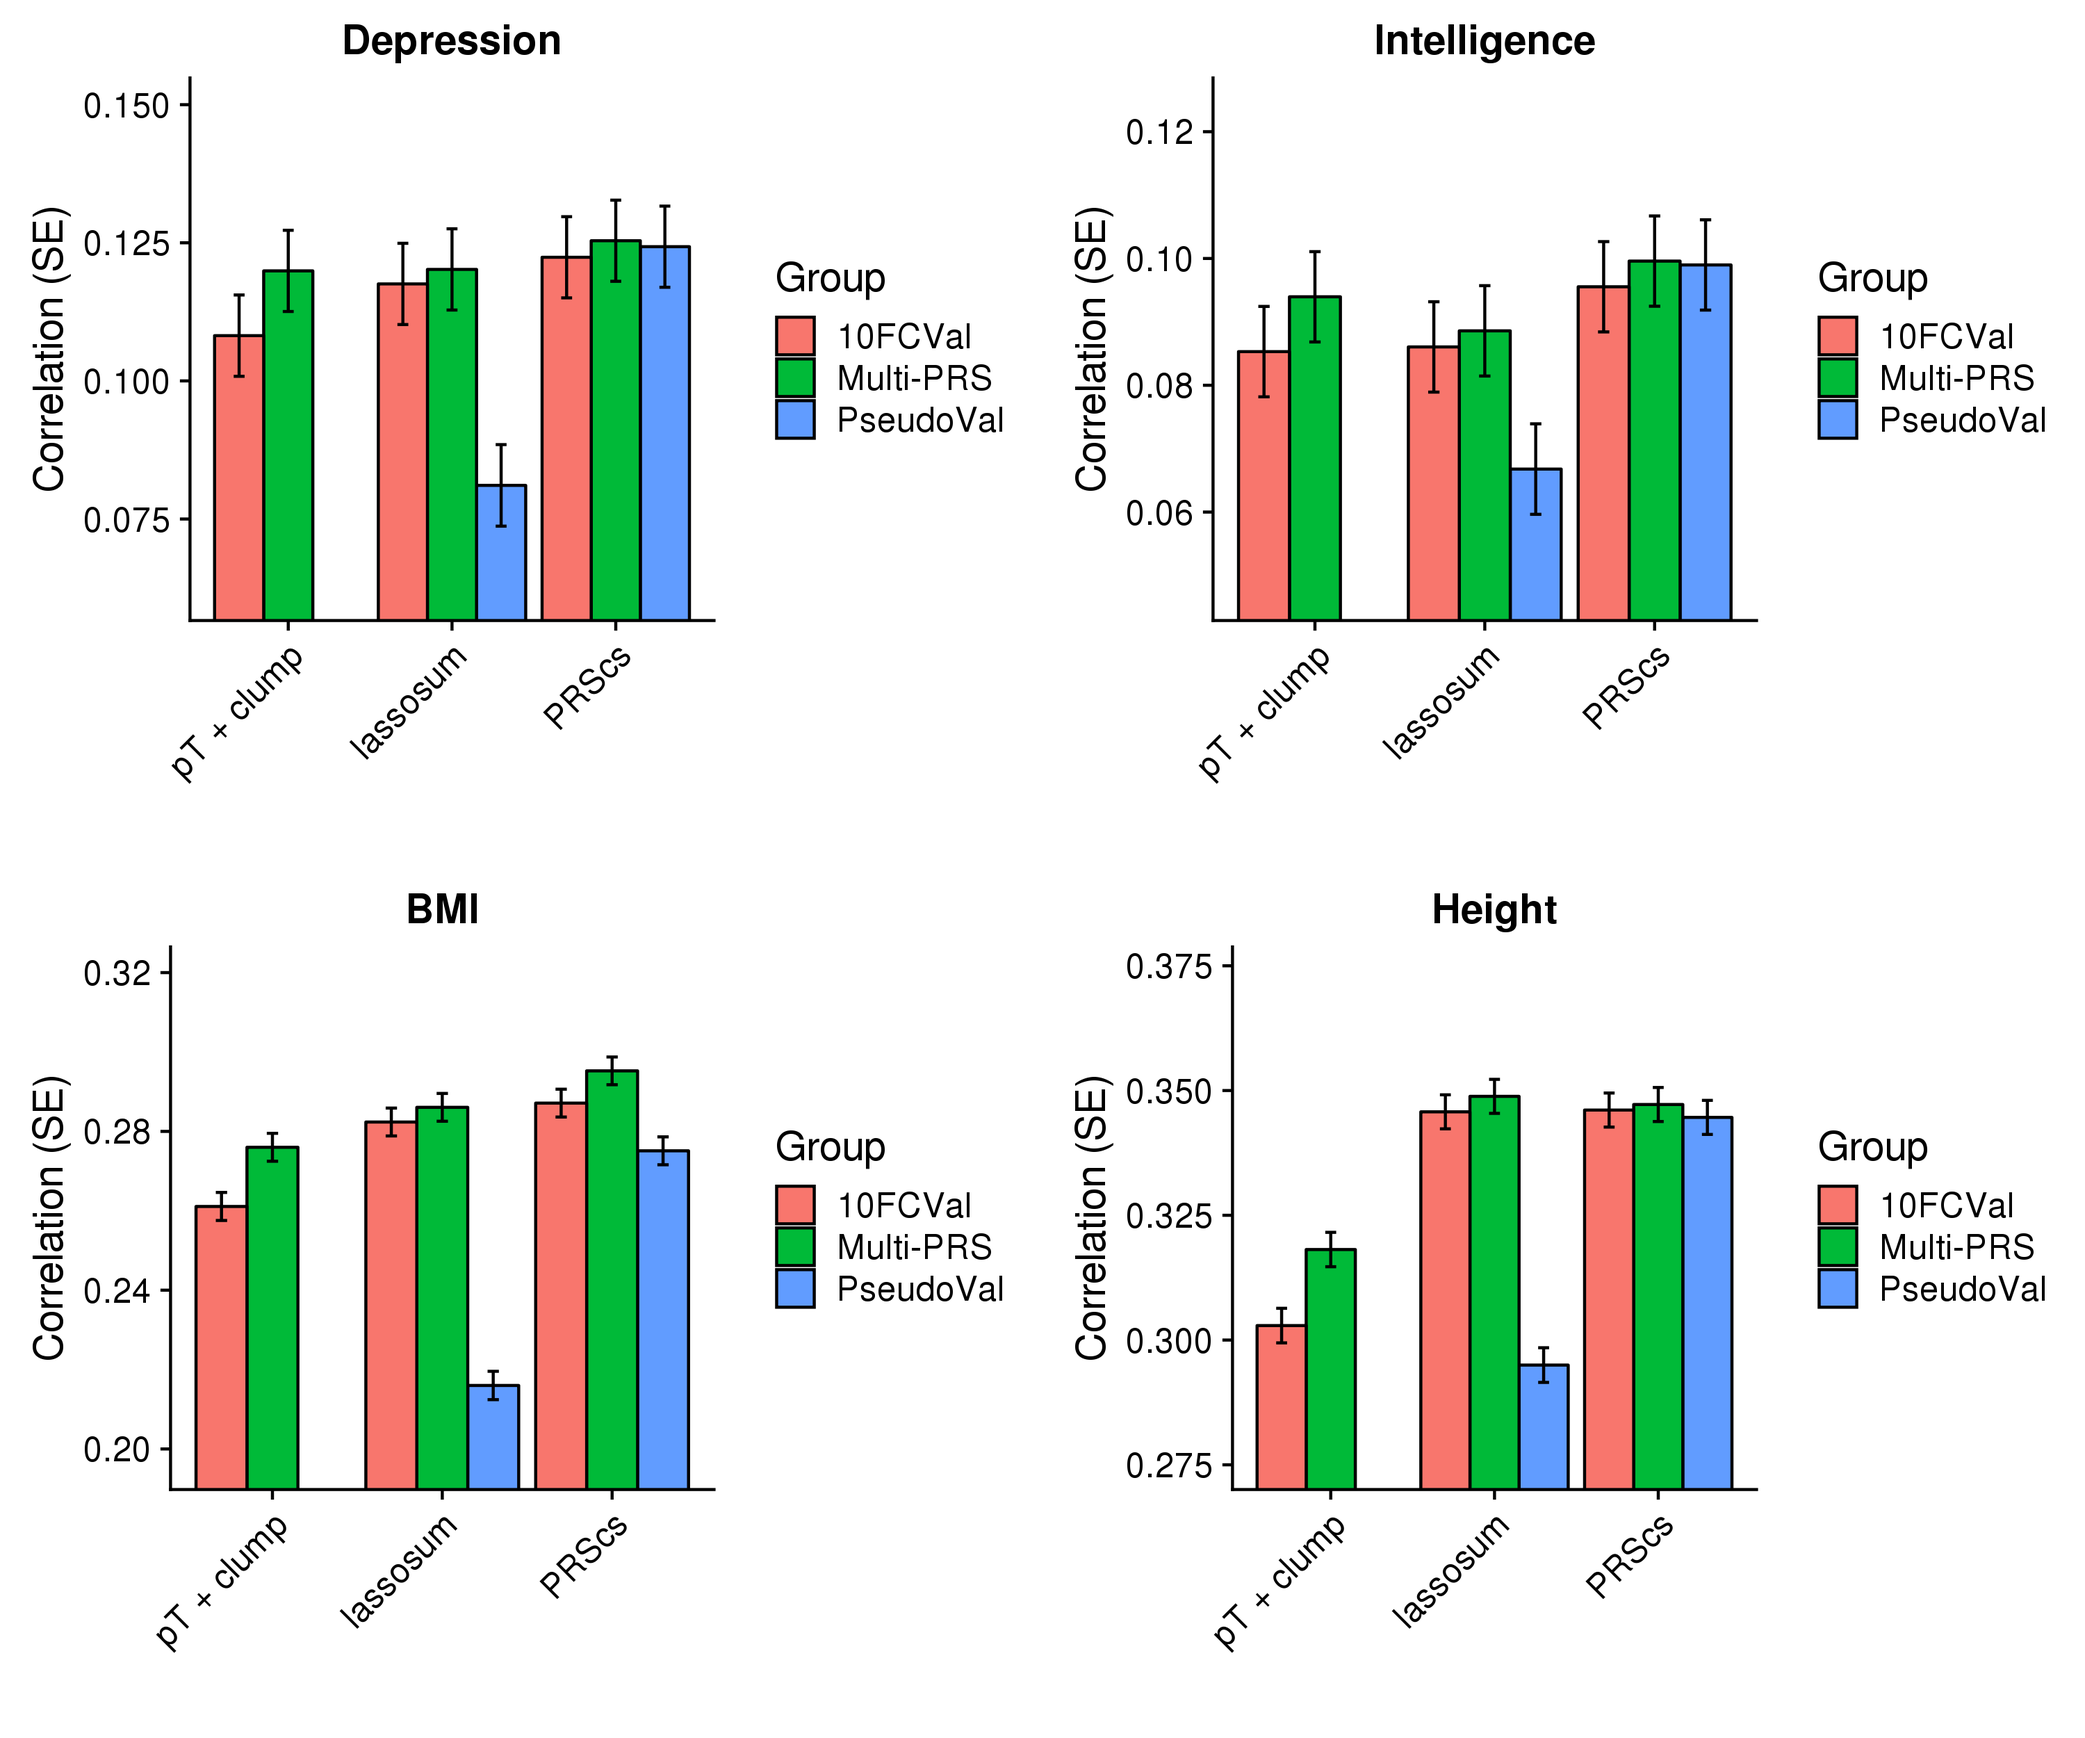
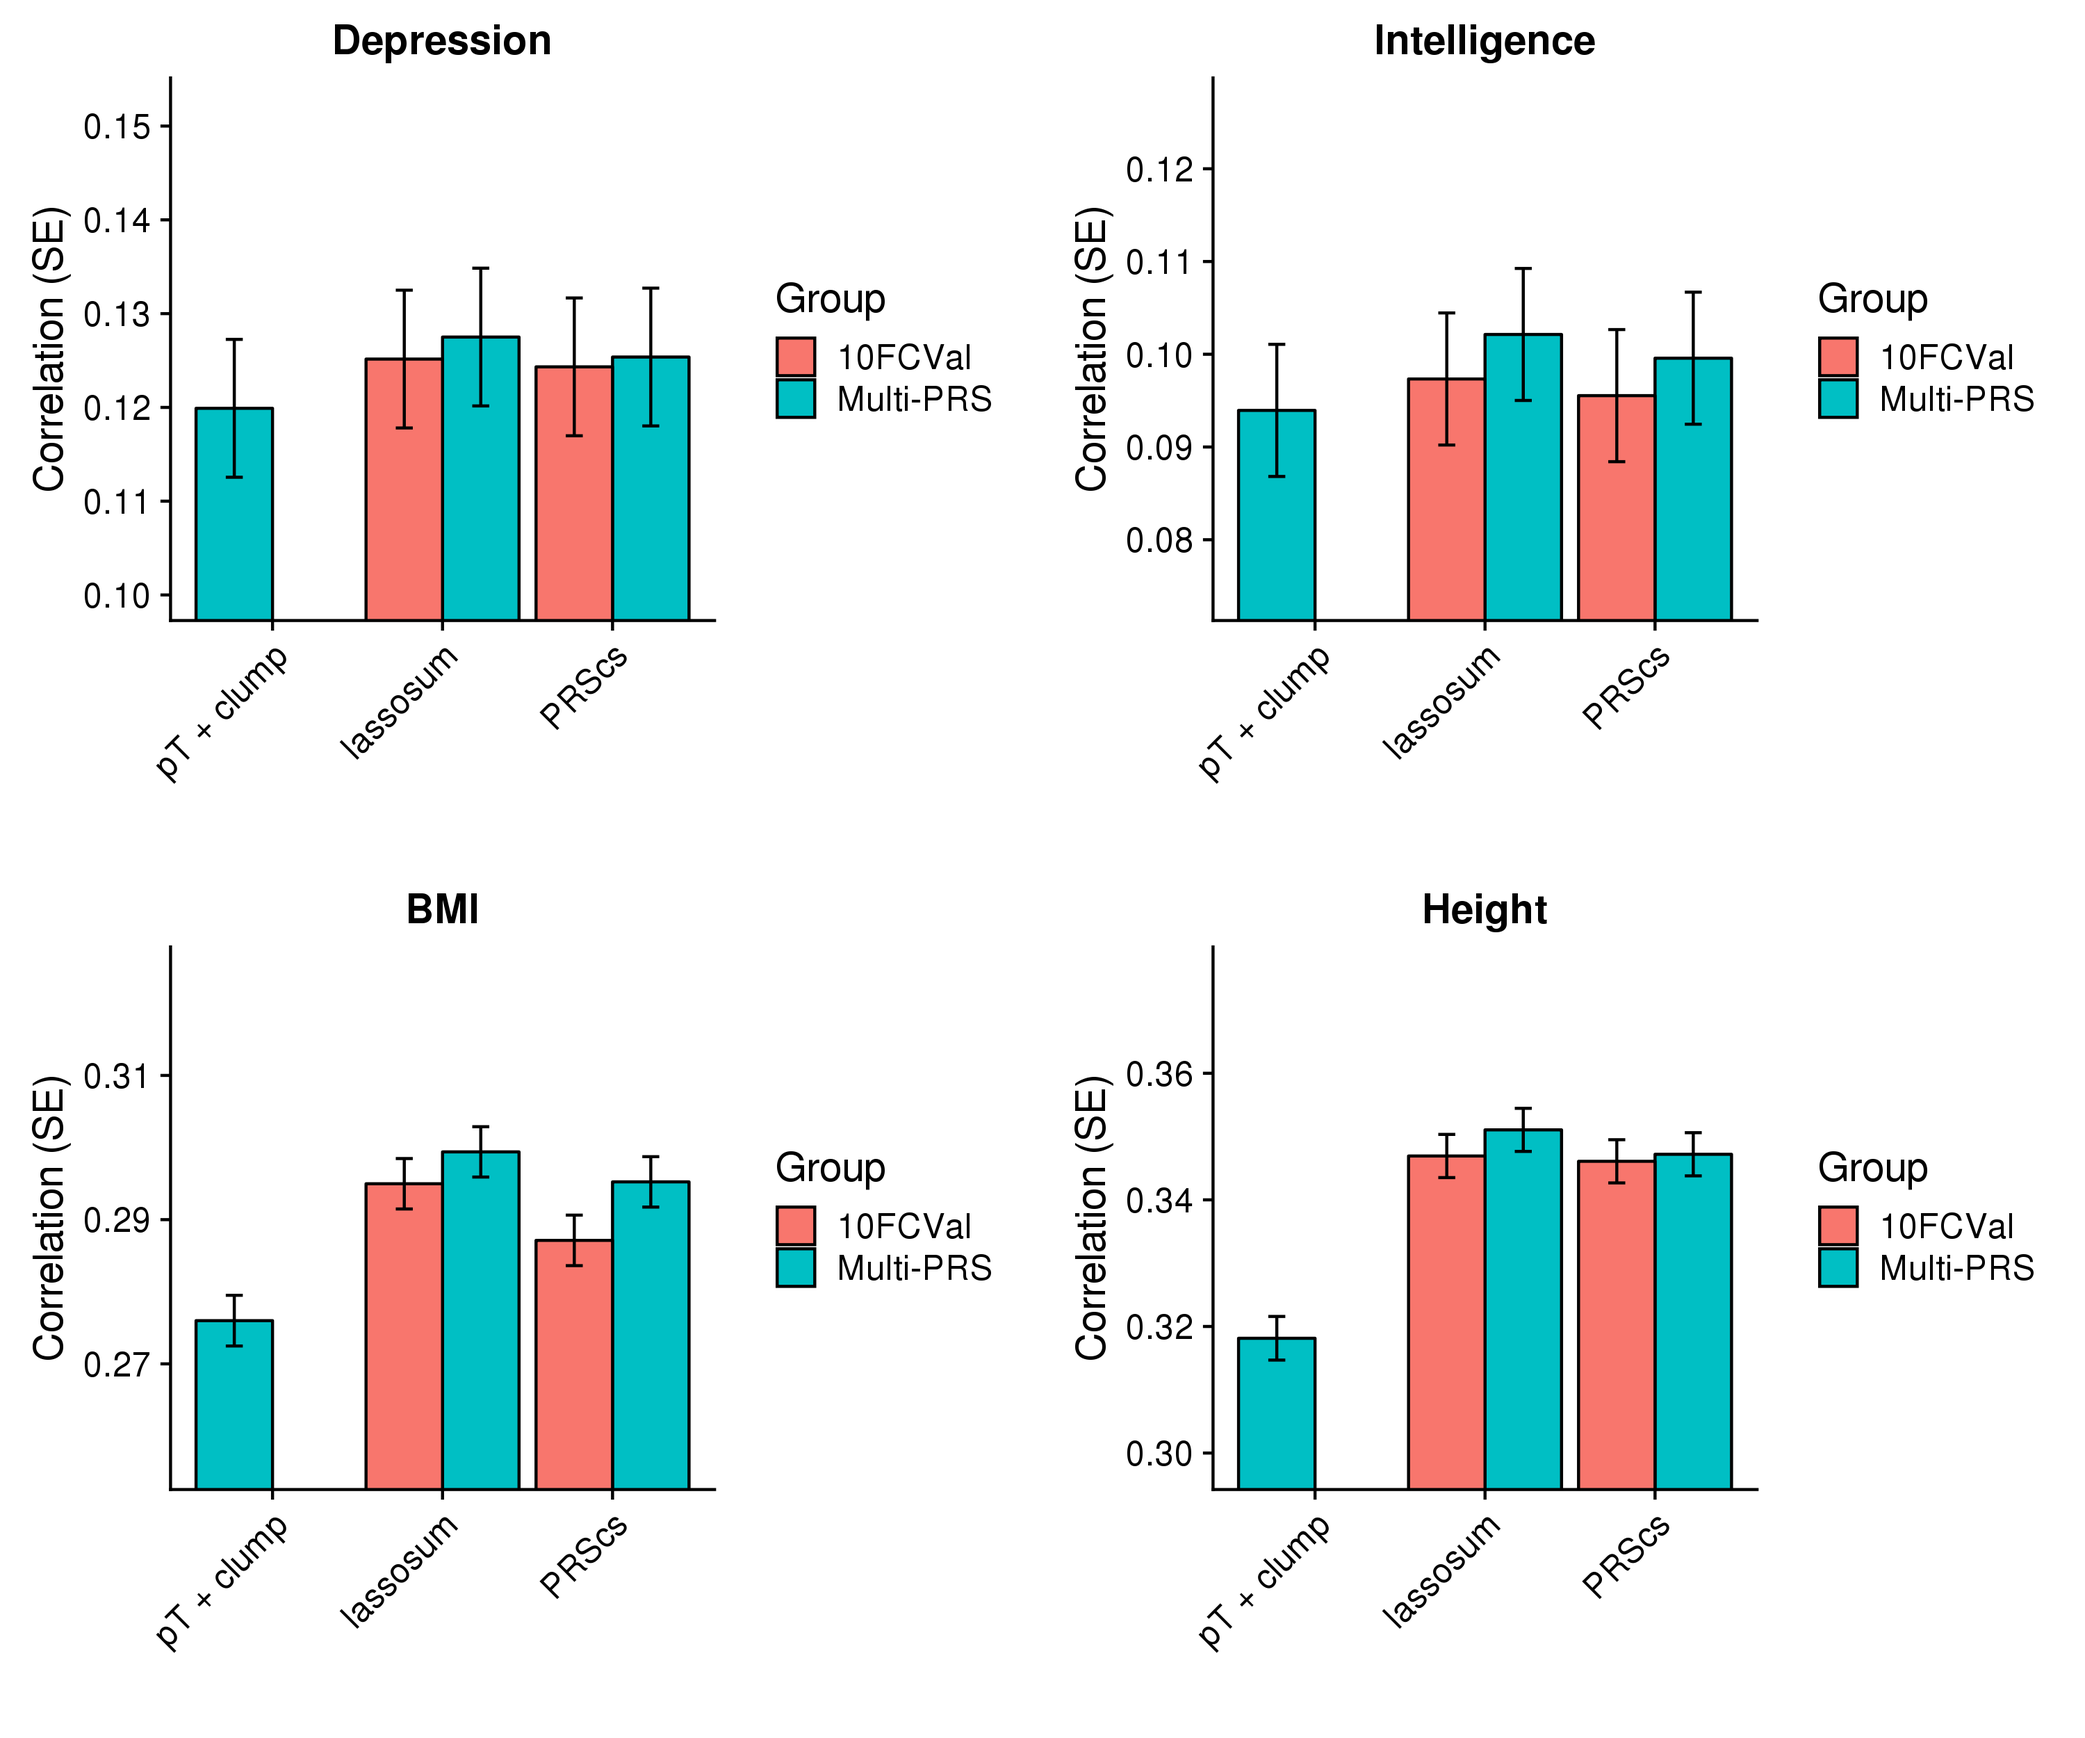
Update

diff --git a/Determine_optimal_polygenic_scoring_approach.html b/Determine_optimal_polygenic_scoring_approach.html
@@ -627,18 +627,26 @@ pheno_file_i=$(echo ${pheno_file} | cut -f ${i} -d &#39; &#39;)
 gwas_i=$(echo ${gwas} | cut -f ${i} -d &#39; &#39;)
 prev_i=$(echo ${prev} | cut -f ${i} -d &#39; &#39;)
 
-qsub -l h_vmem=10G -pe smp 5 /users/k1806347/brc_scratch/Software/Rscript.sh /users/k1806347/brc_scratch/Software/MyGit/GenoPred/Scripts/Model_builder/Model_builder.R \
+qsub -l h_vmem=20G -pe smp 4 /users/k1806347/brc_scratch/Software/Rscript.sh /users/k1806347/brc_scratch/Software/MyGit/GenoPred/Scripts/Model_builder/Model_builder.R \
 --pheno /users/k1806347/brc_scratch/Data/UKBB/Phenotype/${pheno_i}/${pheno_file_i} \
 --keep /users/k1806347/brc_scratch/Analyses/UKBB_outcomes_for_prediction/ukb18177_glanville_post_qc_id_list.UpdateIDs.fam \
 --out /users/k1806347/brc_scratch/Analyses/UKBB_outcomes_for_prediction/${pheno_i}/Association_withPRSs/UKBB.w_hm3.${gwas_i}.EUR-PRSs_lassosum \
---n_core 5 \
+--n_core 4 \
 --compare_predictors T \
 --assoc T \
 --outcome_pop_prev ${prev_i} \
 --predictors /users/k1806347/brc_scratch/Analyses/UKBB_outcomes_for_prediction/${pheno_i}/Association_withPRSs/UKBB.w_hm3.${gwas_i}.EUR-PRSs_lassosum.predictor_groups
 done
 
-# Note. Lassosum scores are identical across S values, indicating an error.</code></pre>
+opt$pheno&lt;-&#39;/users/k1806347/brc_scratch/Data/UKBB/Phenotype/Depression/ever_depressed_pheno_final.UpdateIDs.txt&#39;
+opt$keep&lt;-&#39;/users/k1806347/brc_scratch/Analyses/UKBB_outcomes_for_prediction/ukb18177_glanville_post_qc_id_list.UpdateIDs.fam&#39;
+opt$out&lt;-&#39;/users/k1806347/brc_scratch/Analyses/UKBB_outcomes_for_prediction/Depression/Association_withPRSs/UKBB.w_hm3.DEPR06.EUR-PRSs_lassosum&#39;
+opt$n_core&lt;-2
+opt$compare_predictors&lt;-T
+opt$assoc&lt;-T
+opt$outcome_pop_prev&lt;-0.15
+opt$predictors&lt;-&#39;/users/k1806347/brc_scratch/Analyses/UKBB_outcomes_for_prediction/Depression/Association_withPRSs/UKBB.w_hm3.DEPR06.EUR-PRSs_lassosum.predictor_groups&#39;
+</code></pre>
 </details>
 <details>
 <p><summary>PRScs PRSs</summary></p>
@@ -818,8 +826,8 @@ n</code></pre>
 
 <p><br/></p>
 <hr />
-<div id="htmlwidget-842dbee8e5aa00250e8c" style="width:100%;height:auto;" class="datatables html-widget"></div>
-<script type="application/json" data-for="htmlwidget-842dbee8e5aa00250e8c">{"x":{"filter":"top","filterHTML":"<tr>\n  <td data-type=\"factor\" style=\"vertical-align: top;\">\n    <div class=\"form-group has-feedback\" style=\"margin-bottom: auto;\">\n      <input type=\"search\" placeholder=\"All\" class=\"form-control\" style=\"width: 100%;\"/>\n      <span class=\"glyphicon glyphicon-remove-circle form-control-feedback\"><\/span>\n    <\/div>\n    <div style=\"width: 100%; display: none;\">\n      <select multiple=\"multiple\" style=\"width: 100%;\" data-options=\"[&quot;BMI&quot;,&quot;Depression&quot;,&quot;Height&quot;,&quot;Intelligence&quot;]\"><\/select>\n    <\/div>\n  <\/td>\n  <td data-type=\"factor\" style=\"vertical-align: top;\">\n    <div class=\"form-group has-feedback\" style=\"margin-bottom: auto;\">\n      <input type=\"search\" placeholder=\"All\" class=\"form-control\" style=\"width: 100%;\"/>\n      <span class=\"glyphicon glyphicon-remove-circle form-control-feedback\"><\/span>\n    <\/div>\n    <div style=\"width: 100%; display: none;\">\n      <select multiple=\"multiple\" style=\"width: 100%;\" data-options=\"[&quot;lassosum&quot;,&quot;PRScs&quot;,&quot;pT + clump&quot;]\"><\/select>\n    <\/div>\n  <\/td>\n  <td data-type=\"factor\" style=\"vertical-align: top;\">\n    <div class=\"form-group has-feedback\" style=\"margin-bottom: auto;\">\n      <input type=\"search\" placeholder=\"All\" class=\"form-control\" style=\"width: 100%;\"/>\n      <span class=\"glyphicon glyphicon-remove-circle form-control-feedback\"><\/span>\n    <\/div>\n    <div style=\"width: 100%; display: none;\">\n      <select multiple=\"multiple\" style=\"width: 100%;\" data-options=\"[&quot;10FCVal&quot;,&quot;Multi-PRS&quot;,&quot;PseudoVal&quot;]\"><\/select>\n    <\/div>\n  <\/td>\n  <td data-type=\"character\" style=\"vertical-align: top;\">\n    <div class=\"form-group has-feedback\" style=\"margin-bottom: auto;\">\n      <input type=\"search\" placeholder=\"All\" class=\"form-control\" style=\"width: 100%;\"/>\n      <span class=\"glyphicon glyphicon-remove-circle form-control-feedback\"><\/span>\n    <\/div>\n  <\/td>\n  <td data-type=\"character\" style=\"vertical-align: top;\">\n    <div class=\"form-group has-feedback\" style=\"margin-bottom: auto;\">\n      <input type=\"search\" placeholder=\"All\" class=\"form-control\" style=\"width: 100%;\"/>\n      <span class=\"glyphicon glyphicon-remove-circle form-control-feedback\"><\/span>\n    <\/div>\n  <\/td>\n<\/tr>","caption":"<caption>Table 1: Correlation between PRS model predictions and observed values<\/caption>","data":[["Depression","Depression","Depression","Depression","Depression","Depression","Depression","Depression","Intelligence","Intelligence","Intelligence","Intelligence","Intelligence","Intelligence","Intelligence","Intelligence","BMI","BMI","BMI","BMI","BMI","BMI","BMI","BMI","Height","Height","Height","Height","Height","Height","Height","Height"],["pT + clump","pT + clump","lassosum","lassosum","lassosum","PRScs","PRScs","PRScs","pT + clump","pT + clump","lassosum","lassosum","lassosum","PRScs","PRScs","PRScs","pT + clump","pT + clump","lassosum","lassosum","lassosum","PRScs","PRScs","PRScs","pT + clump","pT + clump","lassosum","lassosum","lassosum","PRScs","PRScs","PRScs"],["10FCVal","Multi-PRS","10FCVal","PseudoVal","Multi-PRS","10FCVal","PseudoVal","Multi-PRS","10FCVal","Multi-PRS","10FCVal","PseudoVal","Multi-PRS","10FCVal","PseudoVal","Multi-PRS","10FCVal","Multi-PRS","10FCVal","PseudoVal","Multi-PRS","10FCVal","PseudoVal","Multi-PRS","10FCVal","Multi-PRS","10FCVal","PseudoVal","Multi-PRS","10FCVal","PseudoVal","Multi-PRS"],["0.119 (0.004)","0.126 (0.004)","0.123 (0.004)","0.077 (0.004)","0.127 (0.004)","0.137 (0.004)","0.138 (0.004)","0.14 (0.004)","0.09 (0.004)","0.094 (0.004)","0.093 (0.004)","0.065 (0.004)","0.094 (0.004)","0.102 (0.004)","0.1 (0.004)","0.104 (0.004)","0.255 (0.002)","0.271 (0.002)","0.276 (0.002)","0.215 (0.002)","0.28 (0.002)","0.281 (0.002)","0.272 (0.002)","0.29 (0.002)","0.299 (0.002)","0.315 (0.002)","0.342 (0.002)","0.289 (0.002)","0.345 (0.002)","0.342 (0.002)","0.342 (0.002)","0.344 (0.002)"],["0.108 (0.007)","0.12 (0.007)","0.118 (0.007)","0.081 (0.007)","0.12 (0.007)","0.122 (0.007)","0.124 (0.007)","0.125 (0.007)","0.085 (0.007)","0.094 (0.007)","0.086 (0.007)","0.067 (0.007)","0.089 (0.007)","0.096 (0.007)","0.099 (0.007)","0.1 (0.007)","0.261 (0.004)","0.276 (0.004)","0.282 (0.004)","0.216 (0.004)","0.286 (0.004)","0.287 (0.004)","0.275 (0.004)","0.295 (0.003)","0.303 (0.003)","0.318 (0.003)","0.346 (0.003)","0.295 (0.003)","0.349 (0.003)","0.346 (0.003)","0.345 (0.003)","0.347 (0.003)"]],"container":"<table class=\"display\">\n  <thead>\n    <tr>\n      <th>Phenotype<\/th>\n      <th>Method<\/th>\n      <th>Group<\/th>\n      <th>CrossVal R (SE)<\/th>\n      <th>IndepVal R (SE)<\/th>\n    <\/tr>\n  <\/thead>\n<\/table>","options":{"pageLength":10,"scrollX":true,"order":[],"autoWidth":false,"orderClasses":false,"orderCellsTop":true}},"evals":[],"jsHooks":[]}</script>
+<div id="htmlwidget-404243b9c308bcdd55d7" style="width:100%;height:auto;" class="datatables html-widget"></div>
+<script type="application/json" data-for="htmlwidget-404243b9c308bcdd55d7">{"x":{"filter":"top","filterHTML":"<tr>\n  <td data-type=\"factor\" style=\"vertical-align: top;\">\n    <div class=\"form-group has-feedback\" style=\"margin-bottom: auto;\">\n      <input type=\"search\" placeholder=\"All\" class=\"form-control\" style=\"width: 100%;\"/>\n      <span class=\"glyphicon glyphicon-remove-circle form-control-feedback\"><\/span>\n    <\/div>\n    <div style=\"width: 100%; display: none;\">\n      <select multiple=\"multiple\" style=\"width: 100%;\" data-options=\"[&quot;BMI&quot;,&quot;Depression&quot;,&quot;Height&quot;,&quot;Intelligence&quot;]\"><\/select>\n    <\/div>\n  <\/td>\n  <td data-type=\"factor\" style=\"vertical-align: top;\">\n    <div class=\"form-group has-feedback\" style=\"margin-bottom: auto;\">\n      <input type=\"search\" placeholder=\"All\" class=\"form-control\" style=\"width: 100%;\"/>\n      <span class=\"glyphicon glyphicon-remove-circle form-control-feedback\"><\/span>\n    <\/div>\n    <div style=\"width: 100%; display: none;\">\n      <select multiple=\"multiple\" style=\"width: 100%;\" data-options=\"[&quot;lassosum&quot;,&quot;PRScs&quot;,&quot;pT + clump&quot;]\"><\/select>\n    <\/div>\n  <\/td>\n  <td data-type=\"factor\" style=\"vertical-align: top;\">\n    <div class=\"form-group has-feedback\" style=\"margin-bottom: auto;\">\n      <input type=\"search\" placeholder=\"All\" class=\"form-control\" style=\"width: 100%;\"/>\n      <span class=\"glyphicon glyphicon-remove-circle form-control-feedback\"><\/span>\n    <\/div>\n    <div style=\"width: 100%; display: none;\">\n      <select multiple=\"multiple\" style=\"width: 100%;\" data-options=\"[&quot;10FCVal&quot;,&quot;Multi-PRS&quot;]\"><\/select>\n    <\/div>\n  <\/td>\n  <td data-type=\"character\" style=\"vertical-align: top;\">\n    <div class=\"form-group has-feedback\" style=\"margin-bottom: auto;\">\n      <input type=\"search\" placeholder=\"All\" class=\"form-control\" style=\"width: 100%;\"/>\n      <span class=\"glyphicon glyphicon-remove-circle form-control-feedback\"><\/span>\n    <\/div>\n  <\/td>\n  <td data-type=\"character\" style=\"vertical-align: top;\">\n    <div class=\"form-group has-feedback\" style=\"margin-bottom: auto;\">\n      <input type=\"search\" placeholder=\"All\" class=\"form-control\" style=\"width: 100%;\"/>\n      <span class=\"glyphicon glyphicon-remove-circle form-control-feedback\"><\/span>\n    <\/div>\n  <\/td>\n<\/tr>","caption":"<caption>Table 1: Correlation between PRS model predictions and observed values<\/caption>","data":[["Depression","Depression","Depression","Depression","Depression","Intelligence","Intelligence","Intelligence","Intelligence","Intelligence","BMI","BMI","BMI","BMI","BMI","Height","Height","Height","Height","Height"],["pT + clump","lassosum","lassosum","PRScs","PRScs","pT + clump","lassosum","lassosum","PRScs","PRScs","pT + clump","lassosum","lassosum","PRScs","PRScs","pT + clump","lassosum","lassosum","PRScs","PRScs"],["Multi-PRS","10FCVal","Multi-PRS","10FCVal","Multi-PRS","Multi-PRS","10FCVal","Multi-PRS","10FCVal","Multi-PRS","Multi-PRS","10FCVal","Multi-PRS","10FCVal","Multi-PRS","Multi-PRS","10FCVal","Multi-PRS","10FCVal","Multi-PRS"],["0.126 (0.004)","0.139 (0.004)","0.141 (0.004)","0.138 (0.004)","0.14 (0.004)","0.094 (0.004)","0.103 (0.004)","0.106 (0.004)","0.102 (0.004)","0.104 (0.004)","0.271 (0.002)","0.289 (0.002)","0.294 (0.002)","0.281 (0.002)","0.29 (0.002)","0.315 (0.002)","0.342 (0.002)","0.347 (0.002)","0.342 (0.002)","0.344 (0.002)"],["0.12 (0.007)","0.125 (0.007)","0.128 (0.007)","0.124 (0.007)","0.125 (0.007)","0.094 (0.007)","0.097 (0.007)","0.102 (0.007)","0.096 (0.007)","0.1 (0.007)","0.276 (0.004)","0.295 (0.003)","0.299 (0.003)","0.287 (0.004)","0.295 (0.003)","0.318 (0.003)","0.347 (0.003)","0.351 (0.003)","0.346 (0.003)","0.347 (0.003)"]],"container":"<table class=\"display\">\n  <thead>\n    <tr>\n      <th>Phenotype<\/th>\n      <th>Method<\/th>\n      <th>Group<\/th>\n      <th>CrossVal R (SE)<\/th>\n      <th>IndepVal R (SE)<\/th>\n    <\/tr>\n  <\/thead>\n<\/table>","options":{"pageLength":10,"scrollX":true,"order":[],"autoWidth":false,"orderClasses":false,"orderCellsTop":true}},"evals":[],"jsHooks":[]}</script>
 <p><br/></p>
 <hr />
 </div>
